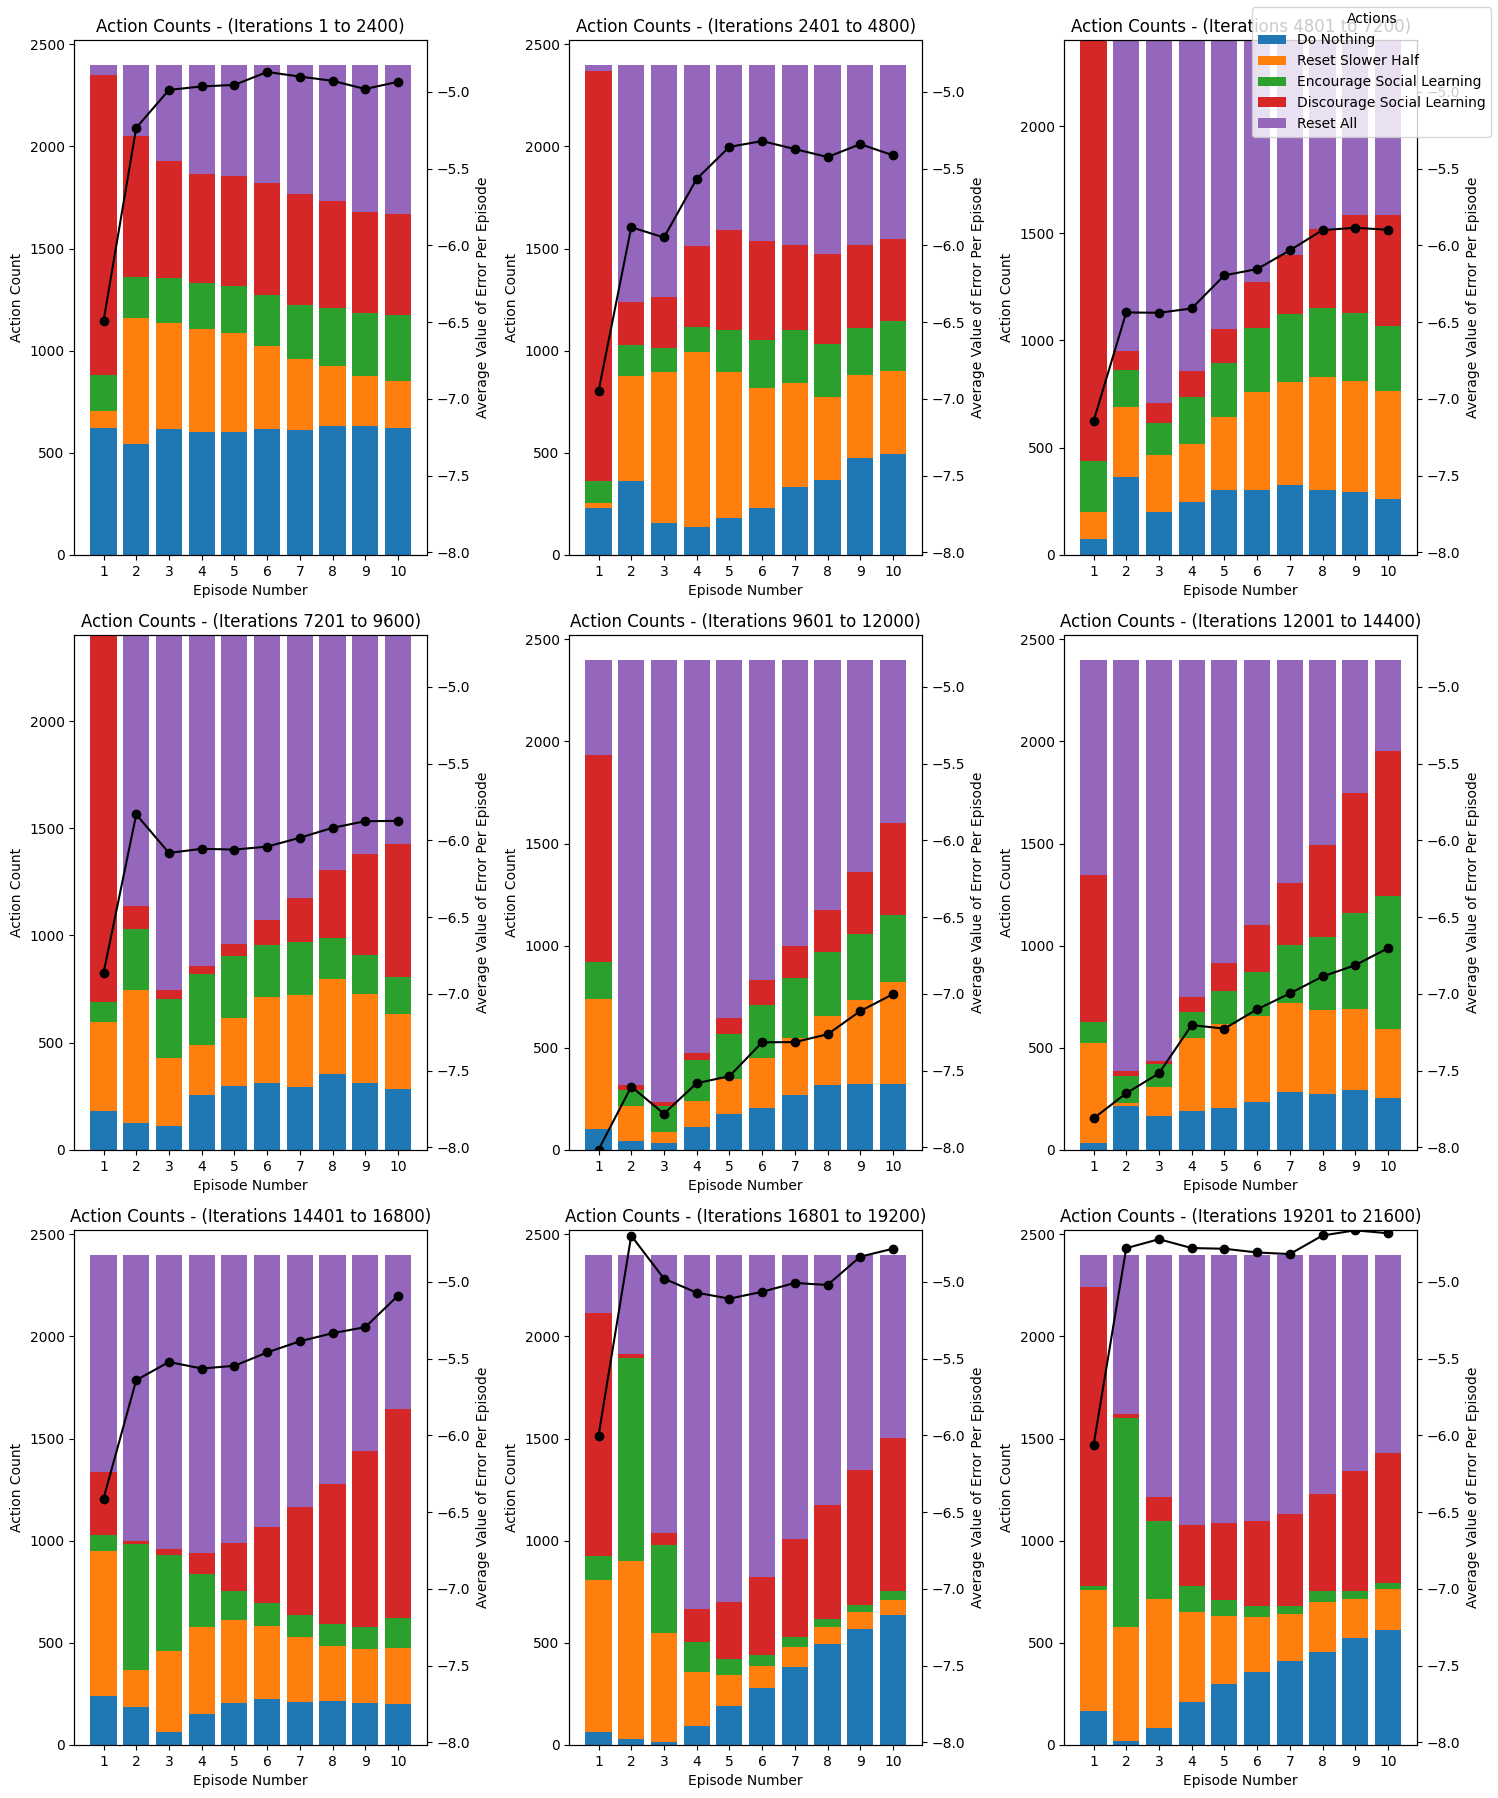
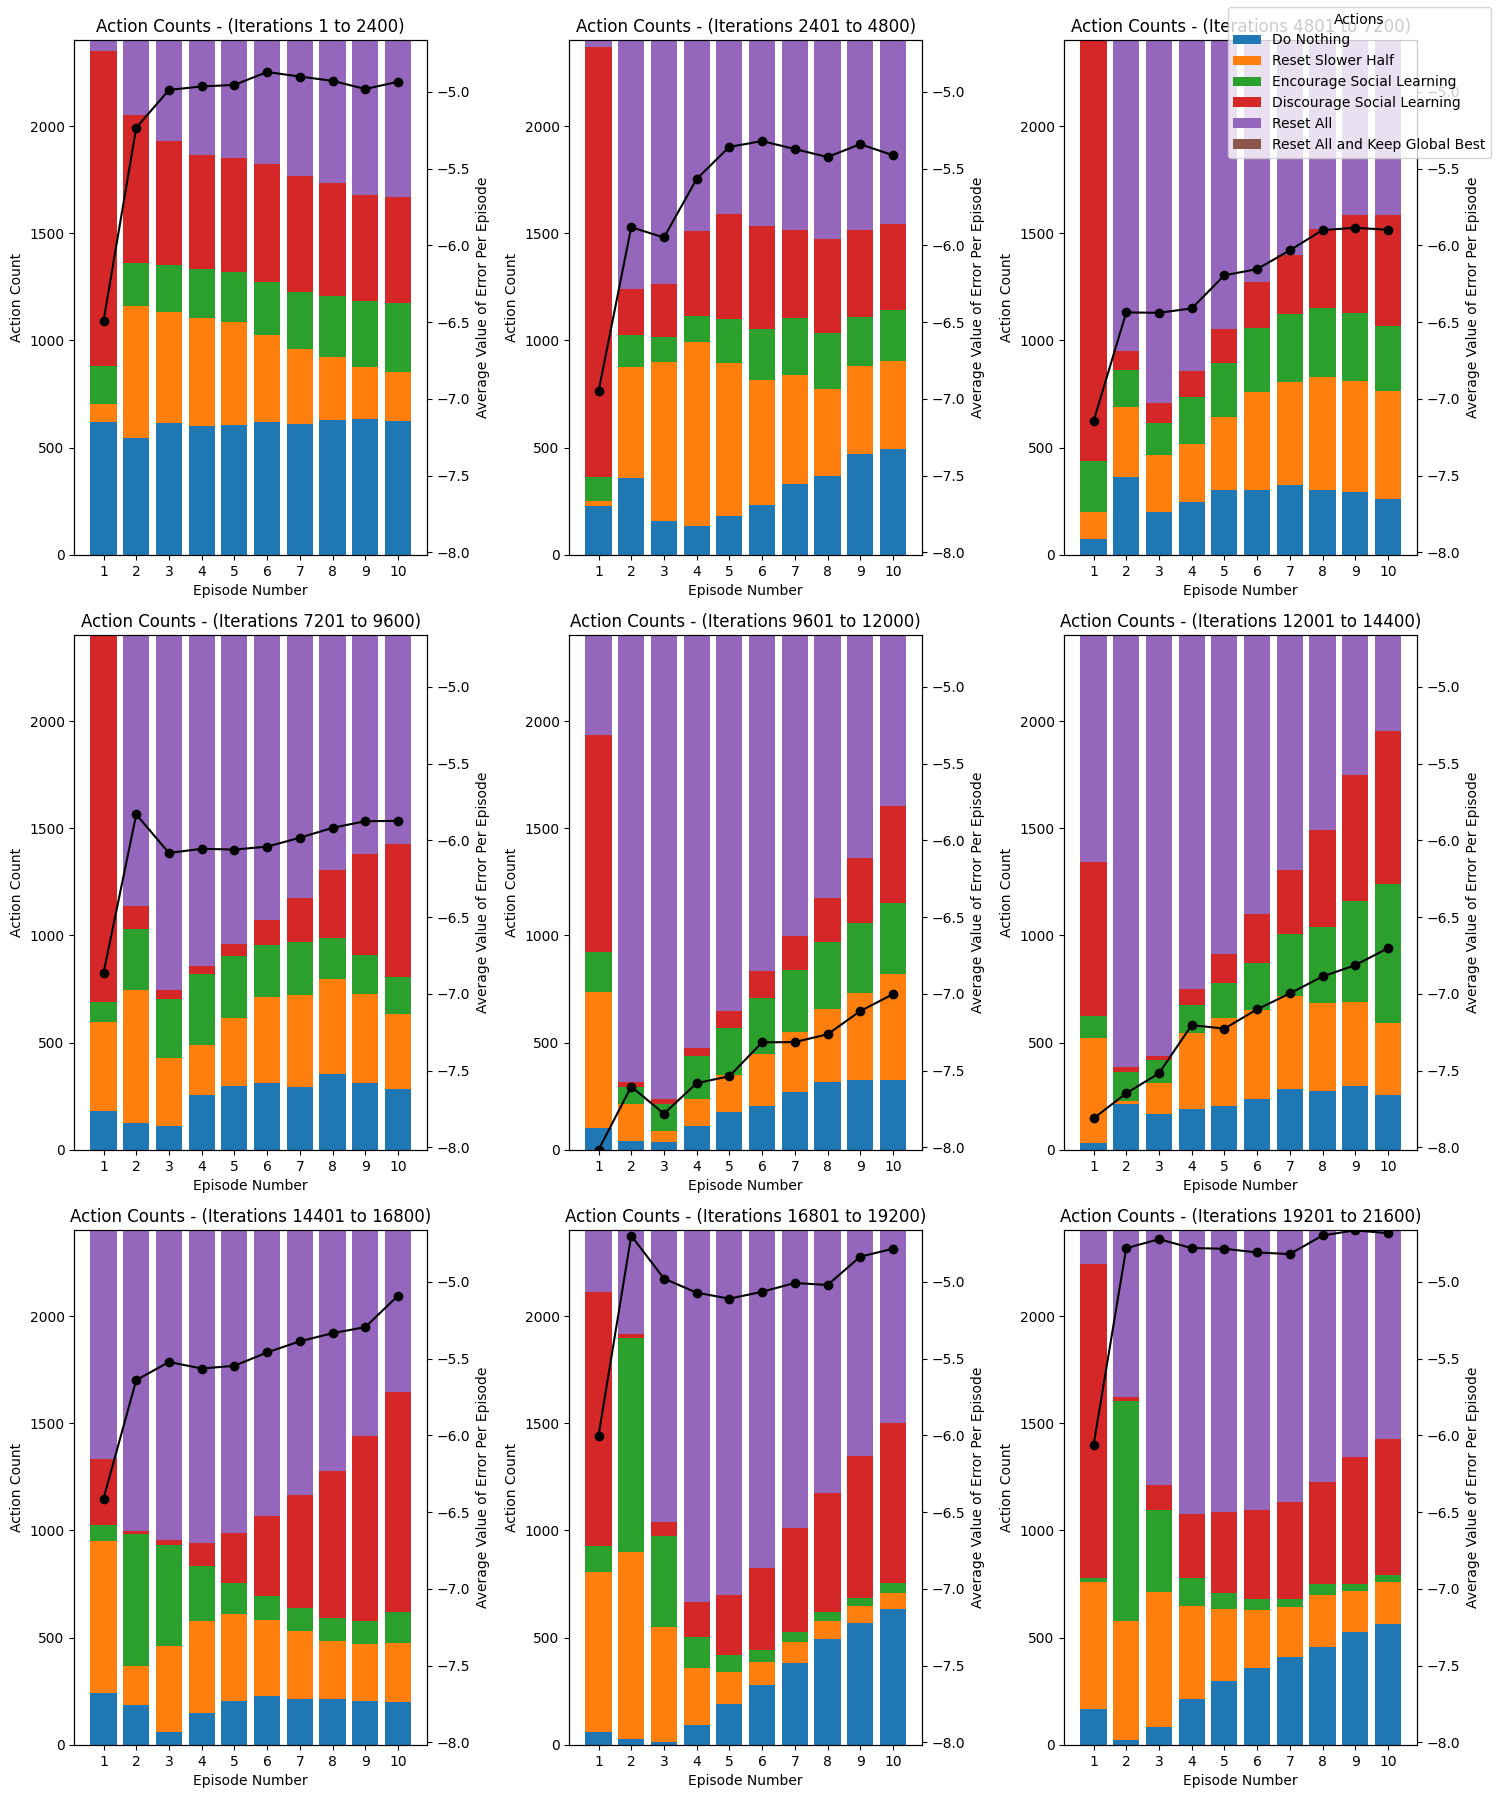
rename param

diff --git a/main.py b/main.py
@@ -28,7 +28,7 @@ if __name__ == "__main__":
     parser.add_argument("--network_type", type=str, default="DRQN", help="Type of the network to build, can either be 'DQN' or 'DRQN'")
     parser.add_argument("--algorithm", type=str, default="PSO", help="The metaheuristic algorithm to use. Currently only pso is supported")
     parser.add_argument("--func_num", type=int, default=19, help="The function number to optimize. Good functions to evaluate are 6,10,11,14,19")
-    parser.add_argument("--num_actions", type=int, default=5, help="The number of actions to choose from in the action space. Default is 5.")
+    parser.add_argument("--num_actions", type=int, default=6, help="The number of actions to choose from in the action space. Default is 5.")
     parser.add_argument("--num_episodes", type=int, default=10, help="The number of episodes in each Reinforcement Learning Iterations before terminating.")
     parser.add_argument("--num_swarm_obs_intervals", type=int, default=10, help="The number of swarm observation intervals. Ex) At 10 evenly spaced observation intervals, observations in the swarm will be collected.")
     parser.add_argument("--swarm_obs_interval_length", type=int, default=60, help="The number of observations per episode conducted in the swarm. Ex) Particle Best Replacement Counts are averaged over the last 60 observations before an episode terminates and action is decided.")

diff --git a/agents/drqn_agent.py b/agents/drqn_agent.py
@@ -25,9 +25,9 @@ class DRQNAgent(BaseAgent):
         self.states = np.roll(self.states, -1, axis=0)
         self.states[-1] = next_state
 
-    def replay_experience(self):
+    def replay_experience(self, experience_length=10):
         losses = []
-        for _ in range(10):  # Why size 10?
+        for _ in range(experience_length):  # Why size 10?
             states, actions, rewards, next_states, done = self.replay_buffer.sample(self.config.batch_size)
             targets = self.target_model.predict(states)  # This is likely unnecessary as it ges rewritten
 

diff --git a/agents/dqn_agent.py b/agents/dqn_agent.py
@@ -24,9 +24,9 @@ class DQNAgent(BaseAgent):
         self.states = np.roll(self.states, -1, axis=0)
         self.states[-1] = next_state
 
-    def replay_experience(self):
+    def replay_experience(self, experience_length=10):
         losses = []
-        for _ in range(10):  # Why size 10?
+        for _ in range(experience_length):  # Why size 10?
             states, actions, rewards, next_states, done = self.replay_buffer.sample(self.config.batch_size)
             targets = self.target_model.predict(states)  # This is likely unnecessary as it ges rewritten
 
